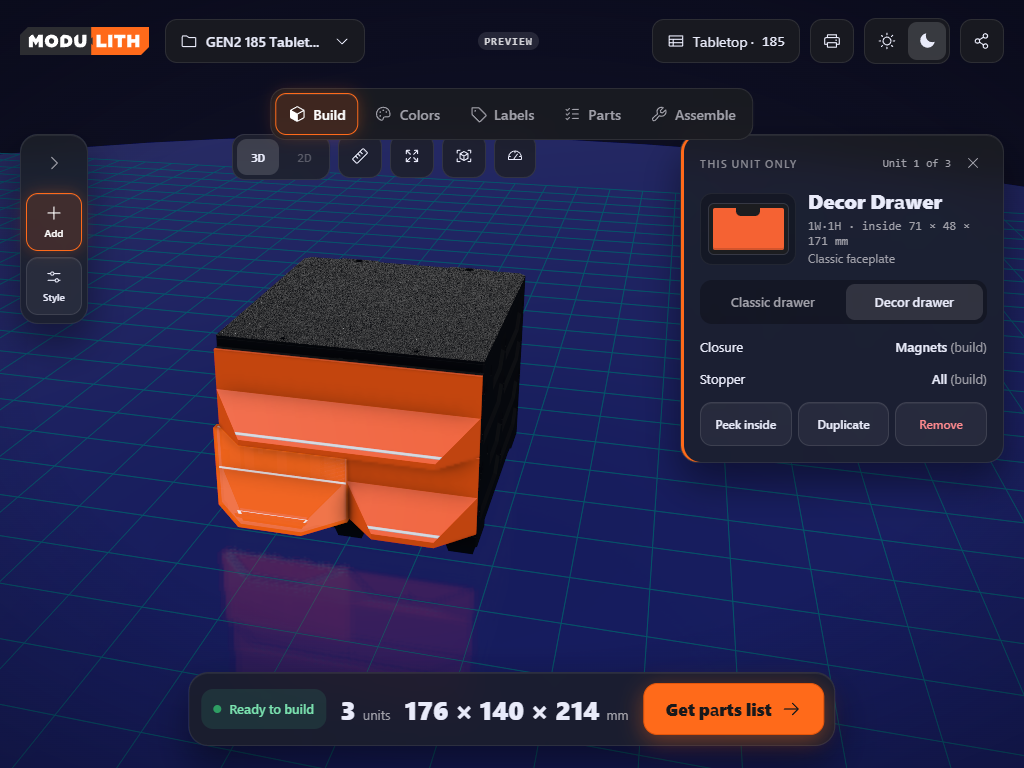
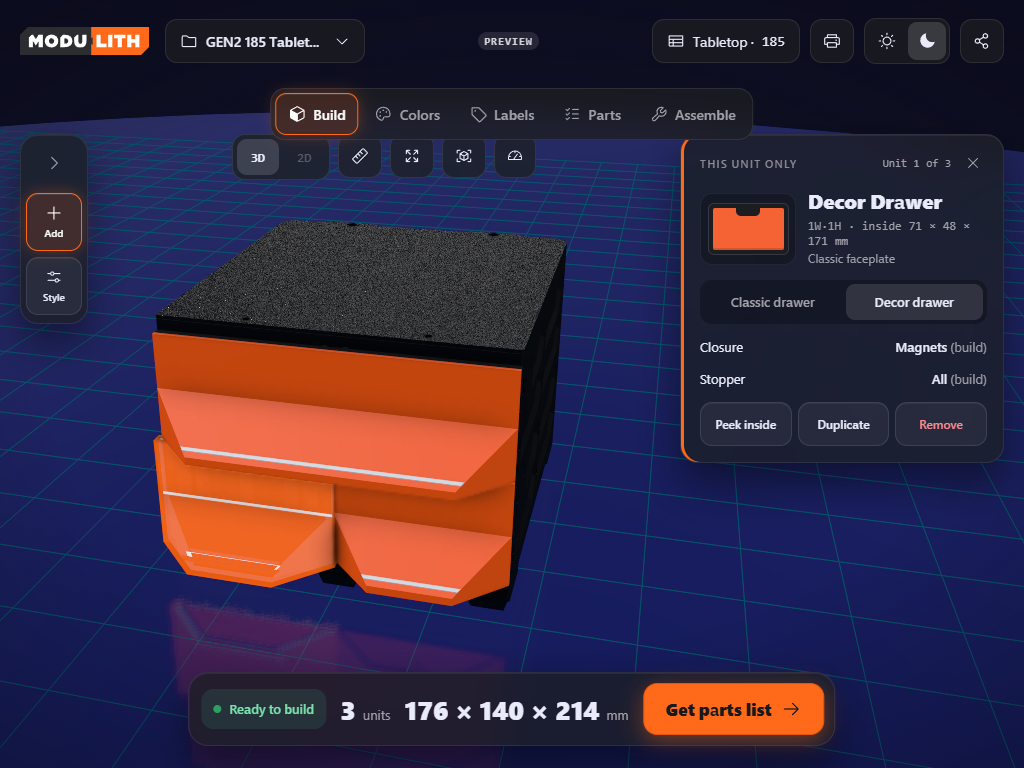
Build screen, third pass: projected framing, callouts in the safe area, fill light
Astra's four points: whole-build presets now frame the PROJECTED bounds
to 84% of the free region (fitProjected), so the model is the focus at
wide widths while a user-adjusted camera is left alone; the W/H/L
callout labels clamp to the safe area, and the viewer's parts panel,
hidden by the shell with display:none, no longer measures as a 0-wide
box at x 0 that pinned every label to the left edge; opts.fillBoost
(the shell passes 1.6) keeps black parts readable without changing the
filament colour; the checkpoint tool writes a same-camera selection
off/on pair and a Measure-on shot.

Plain viewer path unchanged: 60 of 60 goldens. Suite 454 pass, 2
pre-existing failures, 6 skipped; browser gates green. Reviewed: Sol
01a13232, one finding (a corner penalty leaking onto the plain path),
fixed.

diff --git a/js/main.js b/js/main.js
@@ -691,7 +691,9 @@ function applyQuality(name) {
   baseHemi = rig.hemi;
   if (!cinema.on) hemi.intensity = rig.hemi;
   sun.intensity = rig.sun;
-  fill.intensity = rig.fill;
+  /* the workspace asks for more fill (opts.fillBoost, 2026-10-12): a black shell in the Jerrari palette lost its
+     side faces at the stage's resting fill; the boost reveals the shape without changing the filament colour */
+  fill.intensity = rig.fill * ((typeof opts !== 'undefined' && opts.fillBoost) || 1);
 
   // The outro owns scene.environment while it runs — don't stomp the party room.
   if (!cinema.on) scene.environment = q.env ? studioEnv() : null;
@@ -4622,6 +4624,34 @@ async function playStep(i) {
 }
 
 // ---------- camera ----------
+/* The workspace's framing (2026-10-12, Astra: "fit the projected model bounds with modest padding, rather than
+   treating 'nothing overlaps' as the only success criterion"). The sphere fit above is the start; this walks
+   the distance in so the PROJECTED box of the build fills FILL of the free region (the canvas minus the safe
+   area's bands), whichever axis is tighter. Three refinements are enough for a perspective camera. */
+const FIT_FILL = 0.84;
+const _fitProbe = new THREE.PerspectiveCamera(40, 1.6, 1, 1e5);
+const _fitV = new THREE.Vector3();
+function fitProjected(r, t, p, target, fov) {
+  const W = canvas.clientWidth || 1, H = canvas.clientHeight || 1;
+  const fw = Math.max(0.1, (W - safeArea.left - safeArea.right) / W), fh = Math.max(0.1, (H - safeArea.top - safeArea.bottom) / H);
+  const dir = new THREE.Vector3(Math.sin(p) * Math.sin(t), Math.cos(p), Math.sin(p) * Math.cos(t));
+  _fitProbe.fov = fov; _fitProbe.aspect = camera.aspect || 1.6; _fitProbe.updateProjectionMatrix();
+  const b = assembledBox, floor = r * 0.25;   // never closer than a quarter of the sphere fit
+  for (let k = 0; k < 3; k++) {
+    _fitProbe.position.copy(dir).multiplyScalar(r).add(target); _fitProbe.lookAt(target); _fitProbe.updateMatrixWorld();
+    let x0 = Infinity, x1 = -Infinity, y0 = Infinity, y1 = -Infinity;
+    for (let i = 0; i < 8; i++) {
+      _fitV.set(i & 1 ? b.max.x : b.min.x, i & 2 ? b.max.y : b.min.y, i & 4 ? b.max.z : b.min.z).project(_fitProbe);
+      if (_fitV.z > 1) return r;   // a corner behind the probe: keep the sphere fit
+      x0 = Math.min(x0, _fitV.x); x1 = Math.max(x1, _fitV.x); y0 = Math.min(y0, _fitV.y); y1 = Math.max(y1, _fitV.y);
+    }
+    const need = Math.max((x1 - x0) / (2 * fw), (y1 - y0) / (2 * fh)) / FIT_FILL;
+    if (!isFinite(need) || need <= 0) return r;
+    r = Math.max(floor, r * need);
+    if (Math.abs(need - 1) < 0.01) break;
+  }
+  return r;
+}
 function camPos(preset) {
   const t = THREE.MathUtils.degToRad(preset.t), p = THREE.MathUtils.degToRad(preset.p);
   const target = new THREE.Vector3(...preset.target);
@@ -4632,9 +4662,10 @@ function camPos(preset) {
   // `coverBox` frames the cover's OFF-CENTRE composition: a plain `fit` would
   // re-centre the build and throw the box-art layout away, so fit the stated
   // half-extents at the live aspect and never come closer than the tuned r.
-  const r = preset.coverBox ? coverDistance(preset.coverBox, preset.fov || 40, preset.r)
+  let r = preset.coverBox ? coverDistance(preset.coverBox, preset.fov || 40, preset.r)
     : preset.fitR ? fitDistanceFor(preset.fitR, preset.fov || 40)
     : preset.fit ? fitDistance(preset.fit, preset.fov || 40) : preset.r;
+  if (safeArea && preset.fit && !assembledBox.isEmpty()) r = fitProjected(r, t, p, target, preset.fov || 40);
   const pos = new THREE.Vector3(
     r * Math.sin(p) * Math.sin(t),
     r * Math.cos(p),
@@ -8030,9 +8061,15 @@ function updateDims() { // render-loop: pick edges for the camera, then place la
   const cx = (rx0 + rx1) / 2, cy = (ry0 + ry1) / 2;
   // the desktop parts panel overlays the canvas's right side when open — keep
   // the H line (and clamp all labels) clear of it
-  const cp = $('checklist-panel');
-  const panelLeft = (!cp.classList.contains('hidden') && !isMobile())
-    ? cp.getBoundingClientRect().left - r.left : Infinity;
+  const cp = $('checklist-panel'), cpRect = cp.getBoundingClientRect();
+  // a panel the stylesheet has removed (the workspace shell hides the viewer's chrome by display:none, which
+  // leaves its class list alone) measures 0 wide at x 0: treat it as absent, or every label clamps to the left edge
+  let panelLeft = (!cp.classList.contains('hidden') && !isMobile() && cpRect.width > 0)
+    ? cpRect.left - r.left : Infinity;
+  // the workspace's safe area (2026-10-12): the labels stay inside it, and corners whose label would land under
+  // a panel score as if under the parts panel
+  let minX = 40, minY = 24, maxY = r.height - 24;
+  if (safeArea) { panelLeft = Math.min(panelLeft, r.width - safeArea.right); minX = safeArea.left + 8; minY = safeArea.top + 8; maxY = r.height - safeArea.bottom - 8; }
   // ---- choose the edges for this view --------------------------------------
   const wFront = camera.position.z >= ctr.z;
   const lRight = camera.position.x >= ctr.x;
@@ -8046,7 +8083,7 @@ function updateDims() { // render-loop: pick edges for the camera, then place la
     const px = (p.x + 1) / 2 * r.width;
     // penalize corners whose LABEL would have no room before the panel (pill
     // needs ~90px) — not just corners literally under it
-    const score = Math.abs(px - cx) * (px > panelLeft - 90 ? 0.25 : 1);
+    const score = Math.abs(px - cx) * (px > panelLeft - 90 || (safeArea && px < minX + 90) ? 0.25 : 1);   // the left-edge penalty is the workspace's only
     const cand = { sx, sz, score };
     if (!hBest || score > hBest.score) hBest = cand;
     if (dims.hCorner && sx === dims.hCorner.sx && sz === dims.hCorner.sz) hCur = cand;
@@ -8094,7 +8131,7 @@ function updateDims() { // render-loop: pick edges for the camera, then place la
     // clamp to the viewport (and clear of the parts panel) — the label pins to
     // the edge if a tight crop pushes its line point off-screen
     const maxX = Math.min(r.width - 40, panelLeft - hw);
-    const fx = Math.min(Math.max(pos.x, 40), Math.max(40, maxX)), fy = Math.min(Math.max(pos.y, 24), r.height - 24);
+    const fx = Math.min(Math.max(pos.x, minX), Math.max(minX, maxX)), fy = Math.min(Math.max(pos.y, minY), Math.max(minY, maxY));
     placedRects.push({ x0: fx - hw, x1: fx + hw, y0: fy - hh, y1: fy + hh });
     el.style.left = fx + 'px';
     el.style.top = fy + 'px';
@@ -9626,7 +9663,7 @@ renderer.setAnimationLoop(renderLoop);
     currentFaceplateStyle, availableFaceplateStyles,
     currentHandleStyle() { return HANDLE_STYLES.find(h => h.planner === (build && build.handleStyle)) || activeHandleStyle || HANDLE_STYLES[0]; },
     applyStageTheme, get stageTheme() { return stageTheme; }, applyQuality, QUALITY,
-    setMeasure, setDims, get dimsOn() { return dims.on; }, resetView() { $('btn-cam').click(); },
+    setMeasure, setDims, get dimsOn() { return dims.on; }, get dims() { return dims; }, resetView() { $('btn-cam').click(); },
     setSafeArea, get safeArea() { return safeArea; },
     // the filament palette: the presets, the active colour of a part key, and the saved-palette switch
     applyPreset, PRESETS, activeHex, applyPalette,

diff --git a/js/app.js b/js/app.js
@@ -26,7 +26,7 @@ export async function boot() {
   document.documentElement.dataset.ws = WS;
   document.documentElement.dataset.mode = initialMode();
   const ws = { onSelect: null };
-  const stage = await createStage(document, { onSelect: (sel) => ws.onSelect && ws.onSelect(sel), quietSelect: WS === 'build' });
+  const stage = await createStage(document, { onSelect: (sel) => ws.onSelect && ws.onSelect(sel), quietSelect: WS === 'build', fillBoost: 1.6 });
   setMode(document.documentElement.dataset.mode, stage);   // the viewer booted on `dark`; the workspace wants `night`
   if (WS === 'build') ws.onSelect = mountBuild(stage, { setMode });
 }

diff --git a/docs/redesign/STAGE-API.md b/docs/redesign/STAGE-API.md
@@ -25,7 +25,7 @@ const stage = await createStage(document);
 
 `createStage(document, opts)` now reads two options: `opts.onSelect(sel | null)` fires from `setSelected` with `{ id, node, type, owner, label }`, where `owner` is the unit id of the part or of the drawer it rides (covers, rails, feet and QuickLocks give `null`); `opts.quietSelect` makes a selection highlight only (no drawer glide, no removal ritual, no focus camera), which is Build's rule. The returned object also carries `setSelected`, `build`, `selectedId`, the build-wide option setters the viewer's own panel uses (`setAllClosure`, `setAllStoppers`, `setAllVariant`, `setBackCover`, `setFeet`, `applyFaceplateStyle`, `applyHandleStyle`, `currentFaceplateStyle`, `availableFaceplateStyles`, `currentHandleStyle`), `applyStageTheme` / `stageTheme`, `applyQuality` / `QUALITY` / `quality`, `setDims` / `dimsOn` (the W/H/L callouts), `setMeasure`, `resetView`, `buildSize`. These are thin wrappers over existing functions; mounting, dispose, multiple instances and `load(build)` are unchanged from the table above.
 
-Second pass (Astra's review of the first Build screen, same day): `setSafeArea({ left, right, top, bottom })` takes the px bands the workspace's panels cover; the stage then centres the composition in the free region (`updateViewInset`) and frames whole-build presets to it (`fitDistanceFor`), re-fitting on change unless the user has taken the camera. A quiet select also draws a two-rim outline (white inner, orange outer; an inverted hull of every mesh of the unit) so the selection reads against any filament; it is cleared on deselect and on every rebuild of the instances. The stage gained a `night` theme (the dark stage with a quieter grid and a halved reflection) that only the workspace selects, and exposes the palette: `applyPreset`, `PRESETS`, `activeHex`, `applyPalette`, `useCustom`. Still missing: the dimension callout labels clamp to the canvas, not the safe area.
+Second pass (Astra's review of the first Build screen, same day): `setSafeArea({ left, right, top, bottom })` takes the px bands the workspace's panels cover; the stage then centres the composition in the free region (`updateViewInset`) and frames whole-build presets to it (`fitDistanceFor`), re-fitting on change unless the user has taken the camera. A quiet select also draws a two-rim outline (white inner, orange outer; an inverted hull of every mesh of the unit) so the selection reads against any filament; it is cleared on deselect and on every rebuild of the instances. The stage gained a `night` theme (the dark stage with a quieter grid and a halved reflection) that only the workspace selects, and exposes the palette: `applyPreset`, `PRESETS`, `activeHex`, `applyPalette`, `useCustom`. Third pass: with a safe area, whole-build presets frame the PROJECTED bounds to 84% of the free region (`fitProjected`, three refinements of the sphere fit), the W/H/L callout labels clamp to the safe area, and `opts.fillBoost` scales the fill light (the shell passes 1.6 so black parts keep their shape). `dims` is readable on the object for harnesses.
 
 ## What the goldens do and do not prove
 
